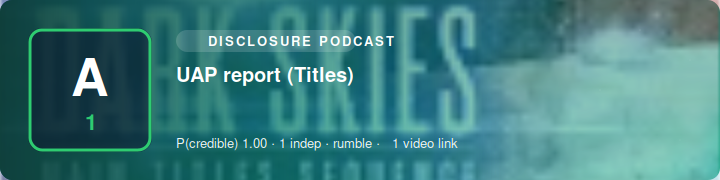
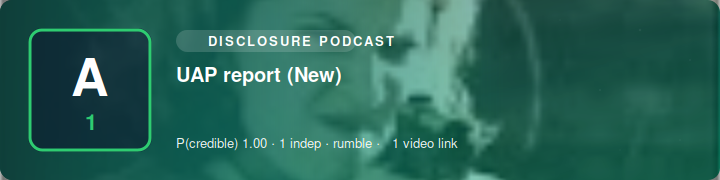
SITREP 2026-07-05 05:20 UTC

diff --git a/index.html b/index.html
@@ -1,1 +1,1 @@
-<!doctype html><meta charset=utf-8><title>Science Bob News — SITREP</title><style>body{font:16px/1.5 system-ui,sans-serif;max-width:760px;margin:2rem auto;padding:0 1rem;color:#111}h1{font-size:1.5rem}h2{margin-top:1.6rem;border-bottom:1px solid #ddd;padding-bottom:.2rem}ul{list-style:none;padding:0}li{margin:.9rem 0}.hl{font-weight:600}.meta{color:#555;font-size:.85rem}.src{font-size:.85rem}.vid{font-size:.85rem;margin-top:.15rem}.card{display:block;max-width:100%;height:auto;border-radius:8px;margin:.4rem 0 .5rem}.upd{background:#fde68a;padding:0 .3rem;border-radius:.2rem;font-size:.75rem}.sub{color:#777;font-size:.85rem}footer{color:#777;font-size:.8rem;margin-top:2rem;border-top:1px solid #ddd;padding-top:.6rem}</style><h1>🛸 Science Bob News</h1><div class="sub">UAP / UFO / USO SITREP · updated 2026-07-04 22:20 UTC · automated</div><h2>Corroborated</h2><ul><li><img class="card" src="https://n4hy.github.io/sciencebobnews-site/card_c_1.svg" alt="" width="720" height="180"><div class="hl">UAP report (New)</div><div class="meta">reliability <b>A1</b> · P(credible)=1.0 · 2 independent source(s) · bluesky+rumble</div><div class="src"><a href="https://www.youtube.com/watch?v=7_qqSoBfcYg">@podcast</a> · <a href="https://bsky.app/profile/did:plc:j3flhle3zrzuskwp6zeygwzw/post/3mptxzzzatc2i">@did:plc:j3flhle3zrzuskwp6zeygwzw</a></div><div class="vid">📹 <a href="https://www.youtube.com/watch?v=7_qqSoBfcYg">video</a></div></li><li><img class="card" src="https://n4hy.github.io/sciencebobnews-site/card_c_2.svg" alt="" width="720" height="180"><div class="hl">UAP report (Jerusalem)</div><div class="meta">reliability <b>A1</b> · P(credible)=1.0 · 2 independent source(s) · mastodon</div><div class="src"><a href="https://mastodon.online/@KilleansRow/116859364735046594">@KilleansRow@mastodon.online</a> · <a href="https://niwego.com/display/a081e5c3-166a-478e-2d3f-8c1255718046">@x@niwego.com</a></div></li></ul><h2>Developing / unconfirmed</h2><ul><li><img class="card" src="https://n4hy.github.io/sciencebobnews-site/card_d_1.svg" alt="" width="720" height="180"><div class="hl">UAP report (Mind)</div><div class="meta">reliability <b>A1</b> · P(credible)=1.0 · 1 independent source(s) · rumble</div><div class="src"><a href="https://www.youtube.com/watch?v=Kt7sNS1Bx6E">@podcast</a></div><div class="vid">📹 <a href="https://www.youtube.com/watch?v=Kt7sNS1Bx6E">video</a></div></li><li><img class="card" src="https://n4hy.github.io/sciencebobnews-site/card_d_2.svg" alt="" width="720" height="180"><div class="hl">UAP whistleblower testimony reported (Channel)</div><div class="meta">reliability <b>A1</b> · P(credible)=1.0 · 1 independent source(s) · rumble</div><div class="src"><a href="https://www.youtube.com/watch?v=l1w2tEsrS-g">@podcast</a></div><div class="vid">📹 <a href="https://www.youtube.com/watch?v=MVjBLIsXFHQ&amp;">video</a> · <a href="https://www.youtube.com/watch?v=l1w2tEsrS-g">video</a></div></li><li><img class="card" src="https://n4hy.github.io/sciencebobnews-site/card_d_3.svg" alt="" width="720" height="180"><div class="hl">UAP report (McMinnville)</div><div class="meta">reliability <b>A1</b> · P(credible)=1.0 · 1 independent source(s) · rumble</div><div class="src"><a href="https://www.youtube.com/watch?v=7OT6uJ0yzVY">@podcast</a></div><div class="vid">📹 <a href="https://www.youtube.com/watch?v=7OT6uJ0yzVY">video</a></div></li><li><img class="card" src="https://n4hy.github.io/sciencebobnews-site/card_d_4.svg" alt="" width="720" height="180"><div class="hl">UAP report (Titles)</div><div class="meta">reliability <b>A1</b> · P(credible)=1.0 · 1 independent source(s) · rumble</div><div class="src"><a href="https://www.youtube.com/watch?v=xExbXEg6tVY">@podcast</a></div><div class="vid">📹 <a href="https://www.youtube.com/watch?v=xExbXEg6tVY">video</a></div></li><li><img class="card" src="https://n4hy.github.io/sciencebobnews-site/card_d_5.svg" alt="" width="720" height="180"><div class="hl">UAP whistleblower testimony reported (Frank)</div><div class="meta">reliability <b>A1</b> · P(credible)=1.0 · 1 independent source(s) · rumble</div><div class="src"><a href="https://www.youtube.com/watch?v=CxvFVjJKZtA">@podcast</a></div><div class="vid">📹 <a href="https://www.youtube.com/watch?v=CxvFVjJKZtA">video</a></div></li></ul><footer><b>Powered by Science Bob News.</b> Free to use with credit (see LICENSE). Headlines are factual restatements in the engine's own words; click sources for originals. Single-origin reposts collapse to one source; prosaic candidates flagged where offered.</footer>
+<!doctype html><meta charset=utf-8><title>Science Bob News — SITREP</title><style>body{font:16px/1.5 system-ui,sans-serif;max-width:760px;margin:2rem auto;padding:0 1rem;color:#111}h1{font-size:1.5rem}h2{margin-top:1.6rem;border-bottom:1px solid #ddd;padding-bottom:.2rem}ul{list-style:none;padding:0}li{margin:.9rem 0}.hl{font-weight:600}.meta{color:#555;font-size:.85rem}.src{font-size:.85rem}.vid{font-size:.85rem;margin-top:.15rem}.card{display:block;max-width:100%;height:auto;border-radius:8px;margin:.4rem 0 .5rem}.upd{background:#fde68a;padding:0 .3rem;border-radius:.2rem;font-size:.75rem}.sub{color:#777;font-size:.85rem}footer{color:#777;font-size:.8rem;margin-top:2rem;border-top:1px solid #ddd;padding-top:.6rem}</style><h1>🛸 Science Bob News</h1><div class="sub">UAP / UFO / USO SITREP · updated 2026-07-05 05:20 UTC · automated</div><h2>Corroborated</h2><ul><li><img class="card" src="https://n4hy.github.io/sciencebobnews-site/card_c_1.svg" alt="" width="720" height="180"><div class="hl">UAP report (Jerusalem)</div><div class="meta">reliability <b>A1</b> · P(credible)=1.0 · 2 independent source(s) · mastodon</div><div class="src"><a href="https://mastodon.online/@KilleansRow/116859364735046594">@KilleansRow@mastodon.online</a> · <a href="https://niwego.com/display/a081e5c3-166a-478e-2d3f-8c1255718046">@x@niwego.com</a></div></li></ul><h2>Developing / unconfirmed</h2><ul><li><img class="card" src="https://n4hy.github.io/sciencebobnews-site/card_d_1.svg" alt="" width="720" height="180"><div class="hl">UAP report (Mind)</div><div class="meta">reliability <b>A1</b> · P(credible)=1.0 · 1 independent source(s) · rumble</div><div class="src"><a href="https://www.youtube.com/watch?v=Kt7sNS1Bx6E">@podcast</a></div><div class="vid">📹 <a href="https://www.youtube.com/watch?v=Kt7sNS1Bx6E">video</a></div></li><li><img class="card" src="https://n4hy.github.io/sciencebobnews-site/card_d_2.svg" alt="" width="720" height="180"><div class="hl">UAP whistleblower testimony reported (Channel)</div><div class="meta">reliability <b>A1</b> · P(credible)=1.0 · 1 independent source(s) · rumble</div><div class="src"><a href="https://www.youtube.com/watch?v=l1w2tEsrS-g">@podcast</a></div><div class="vid">📹 <a href="https://www.youtube.com/watch?v=MVjBLIsXFHQ&amp;">video</a> · <a href="https://www.youtube.com/watch?v=l1w2tEsrS-g">video</a></div></li><li><img class="card" src="https://n4hy.github.io/sciencebobnews-site/card_d_3.svg" alt="" width="720" height="180"><div class="hl">UAP report (McMinnville)</div><div class="meta">reliability <b>A1</b> · P(credible)=1.0 · 1 independent source(s) · rumble</div><div class="src"><a href="https://www.youtube.com/watch?v=7OT6uJ0yzVY">@podcast</a></div><div class="vid">📹 <a href="https://www.youtube.com/watch?v=7OT6uJ0yzVY">video</a></div></li><li><img class="card" src="https://n4hy.github.io/sciencebobnews-site/card_d_4.svg" alt="" width="720" height="180"><div class="hl">UAP report (New)</div><div class="meta">reliability <b>A1</b> · P(credible)=1.0 · 1 independent source(s) · rumble</div><div class="src"><a href="https://www.youtube.com/watch?v=7_qqSoBfcYg">@podcast</a></div><div class="vid">📹 <a href="https://www.youtube.com/watch?v=7_qqSoBfcYg">video</a></div></li><li><img class="card" src="https://n4hy.github.io/sciencebobnews-site/card_d_5.svg" alt="" width="720" height="180"><div class="hl">UAP report (Titles)</div><div class="meta">reliability <b>A1</b> · P(credible)=1.0 · 1 independent source(s) · rumble</div><div class="src"><a href="https://www.youtube.com/watch?v=xExbXEg6tVY">@podcast</a></div><div class="vid">📹 <a href="https://www.youtube.com/watch?v=xExbXEg6tVY">video</a></div></li></ul><footer><b>Powered by Science Bob News.</b> Free to use with credit (see LICENSE). Headlines are factual restatements in the engine's own words; click sources for originals. Single-origin reposts collapse to one source; prosaic candidates flagged where offered.</footer>

diff --git a/sitrep.md b/sitrep.md
@@ -1,16 +1,10 @@
 # 🛸 Science Bob News — UAP / UFO / USO SITREP
-*Updated 2026-07-04 22:20 UTC · auto-generated · sources credited & linked · reliability ratings are automated, not editorial*
+*Updated 2026-07-05 05:20 UTC · auto-generated · sources credited & linked · reliability ratings are automated, not editorial*
 
 ## Corroborated
 
-![UAP report (New)](https://n4hy.github.io/sciencebobnews-site/card_c_1.svg)
-1. **UAP report (New)**  
-   reliability **A1** · P(credible)=1.0 · 2 independent source(s) · bluesky+rumble  
-   [@podcast](https://www.youtube.com/watch?v=7_qqSoBfcYg) · [@did:plc:j3flhle3zrzuskwp6zeygwzw](https://bsky.app/profile/did:plc:j3flhle3zrzuskwp6zeygwzw/post/3mptxzzzatc2i)  
-   📹 [video](https://www.youtube.com/watch?v=7_qqSoBfcYg)
-
-![UAP report (Jerusalem)](https://n4hy.github.io/sciencebobnews-site/card_c_2.svg)
-2. **UAP report (Jerusalem)**  
+![UAP report (Jerusalem)](https://n4hy.github.io/sciencebobnews-site/card_c_1.svg)
+1. **UAP report (Jerusalem)**  
    reliability **A1** · P(credible)=1.0 · 2 independent source(s) · mastodon  
    [@KilleansRow@mastodon.online](https://mastodon.online/@KilleansRow/116859364735046594) · [@x@niwego.com](https://niwego.com/display/a081e5c3-166a-478e-2d3f-8c1255718046)
 
@@ -31,15 +25,15 @@
    [@podcast](https://www.youtube.com/watch?v=7OT6uJ0yzVY)  
    📹 [video](https://www.youtube.com/watch?v=7OT6uJ0yzVY)
 
-![UAP report (Titles)](https://n4hy.github.io/sciencebobnews-site/card_d_4.svg)
-4. UAP report (Titles) — reliability A1 · 1 source(s)  
+![UAP report (New)](https://n4hy.github.io/sciencebobnews-site/card_d_4.svg)
+4. UAP report (New) — reliability A1 · 1 source(s)  
+   [@podcast](https://www.youtube.com/watch?v=7_qqSoBfcYg)  
+   📹 [video](https://www.youtube.com/watch?v=7_qqSoBfcYg)
+
+![UAP report (Titles)](https://n4hy.github.io/sciencebobnews-site/card_d_5.svg)
+5. UAP report (Titles) — reliability A1 · 1 source(s)  
    [@podcast](https://www.youtube.com/watch?v=xExbXEg6tVY)  
    📹 [video](https://www.youtube.com/watch?v=xExbXEg6tVY)
-
-![UAP whistleblower testimony reported (Frank)](https://n4hy.github.io/sciencebobnews-site/card_d_5.svg)
-5. UAP whistleblower testimony reported (Frank) — reliability A1 · 1 source(s)  
-   [@podcast](https://www.youtube.com/watch?v=CxvFVjJKZtA)  
-   📹 [video](https://www.youtube.com/watch?v=CxvFVjJKZtA)
 
 ---
 *Powered by Science Bob News. Free to use with credit (see LICENSE). Headlines are factual restatements in the engine's own words — click through to the linked sources for originals. Reposts of a single origin are collapsed to one source; candidate prosaic explanations are flagged where offered.*
